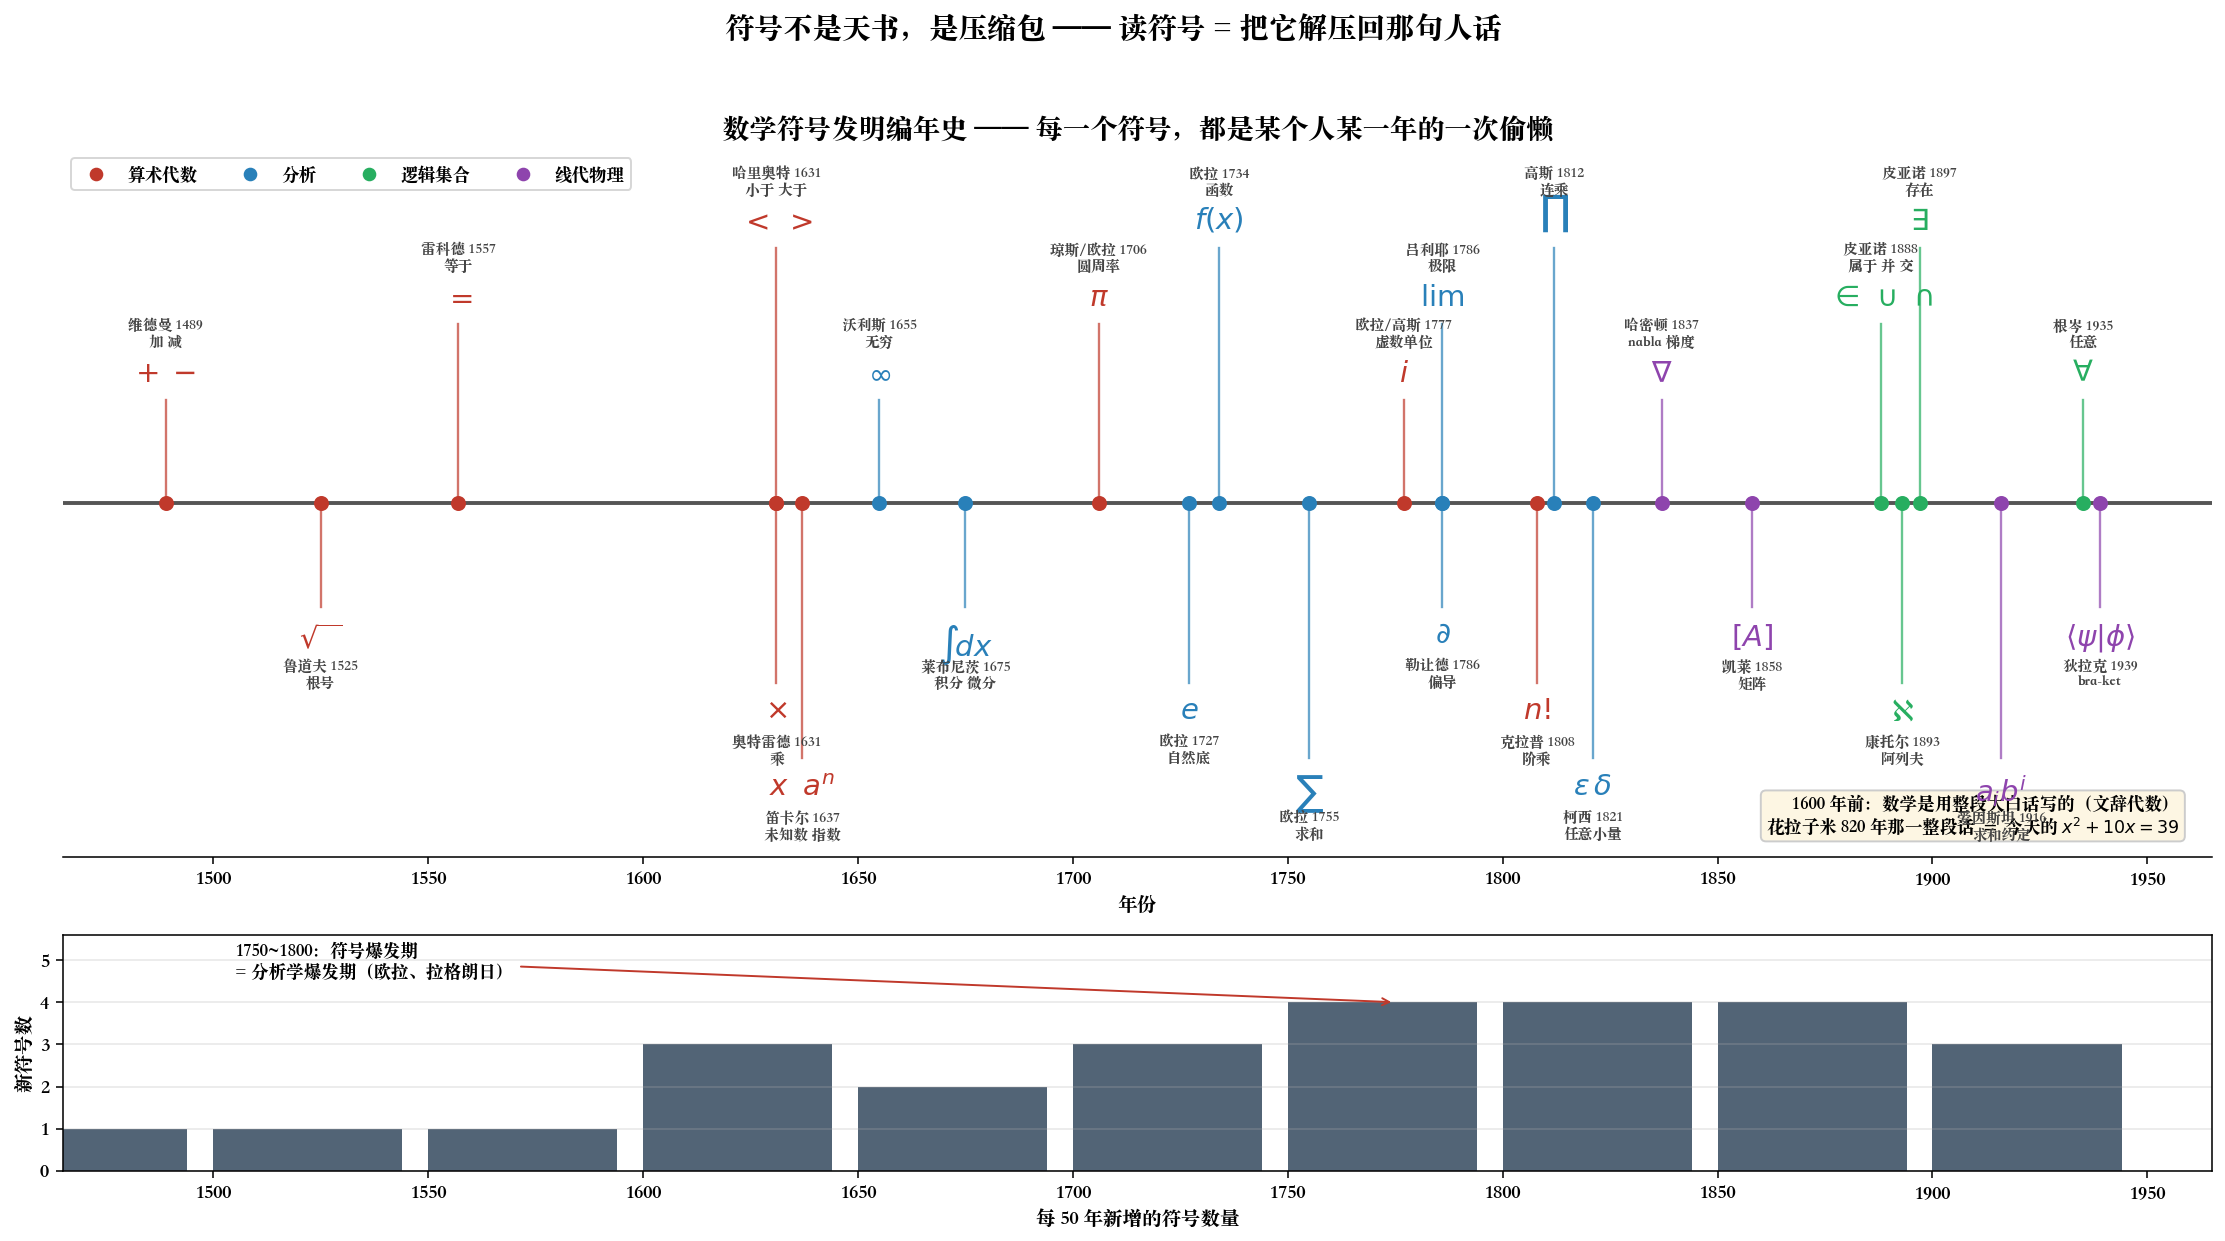
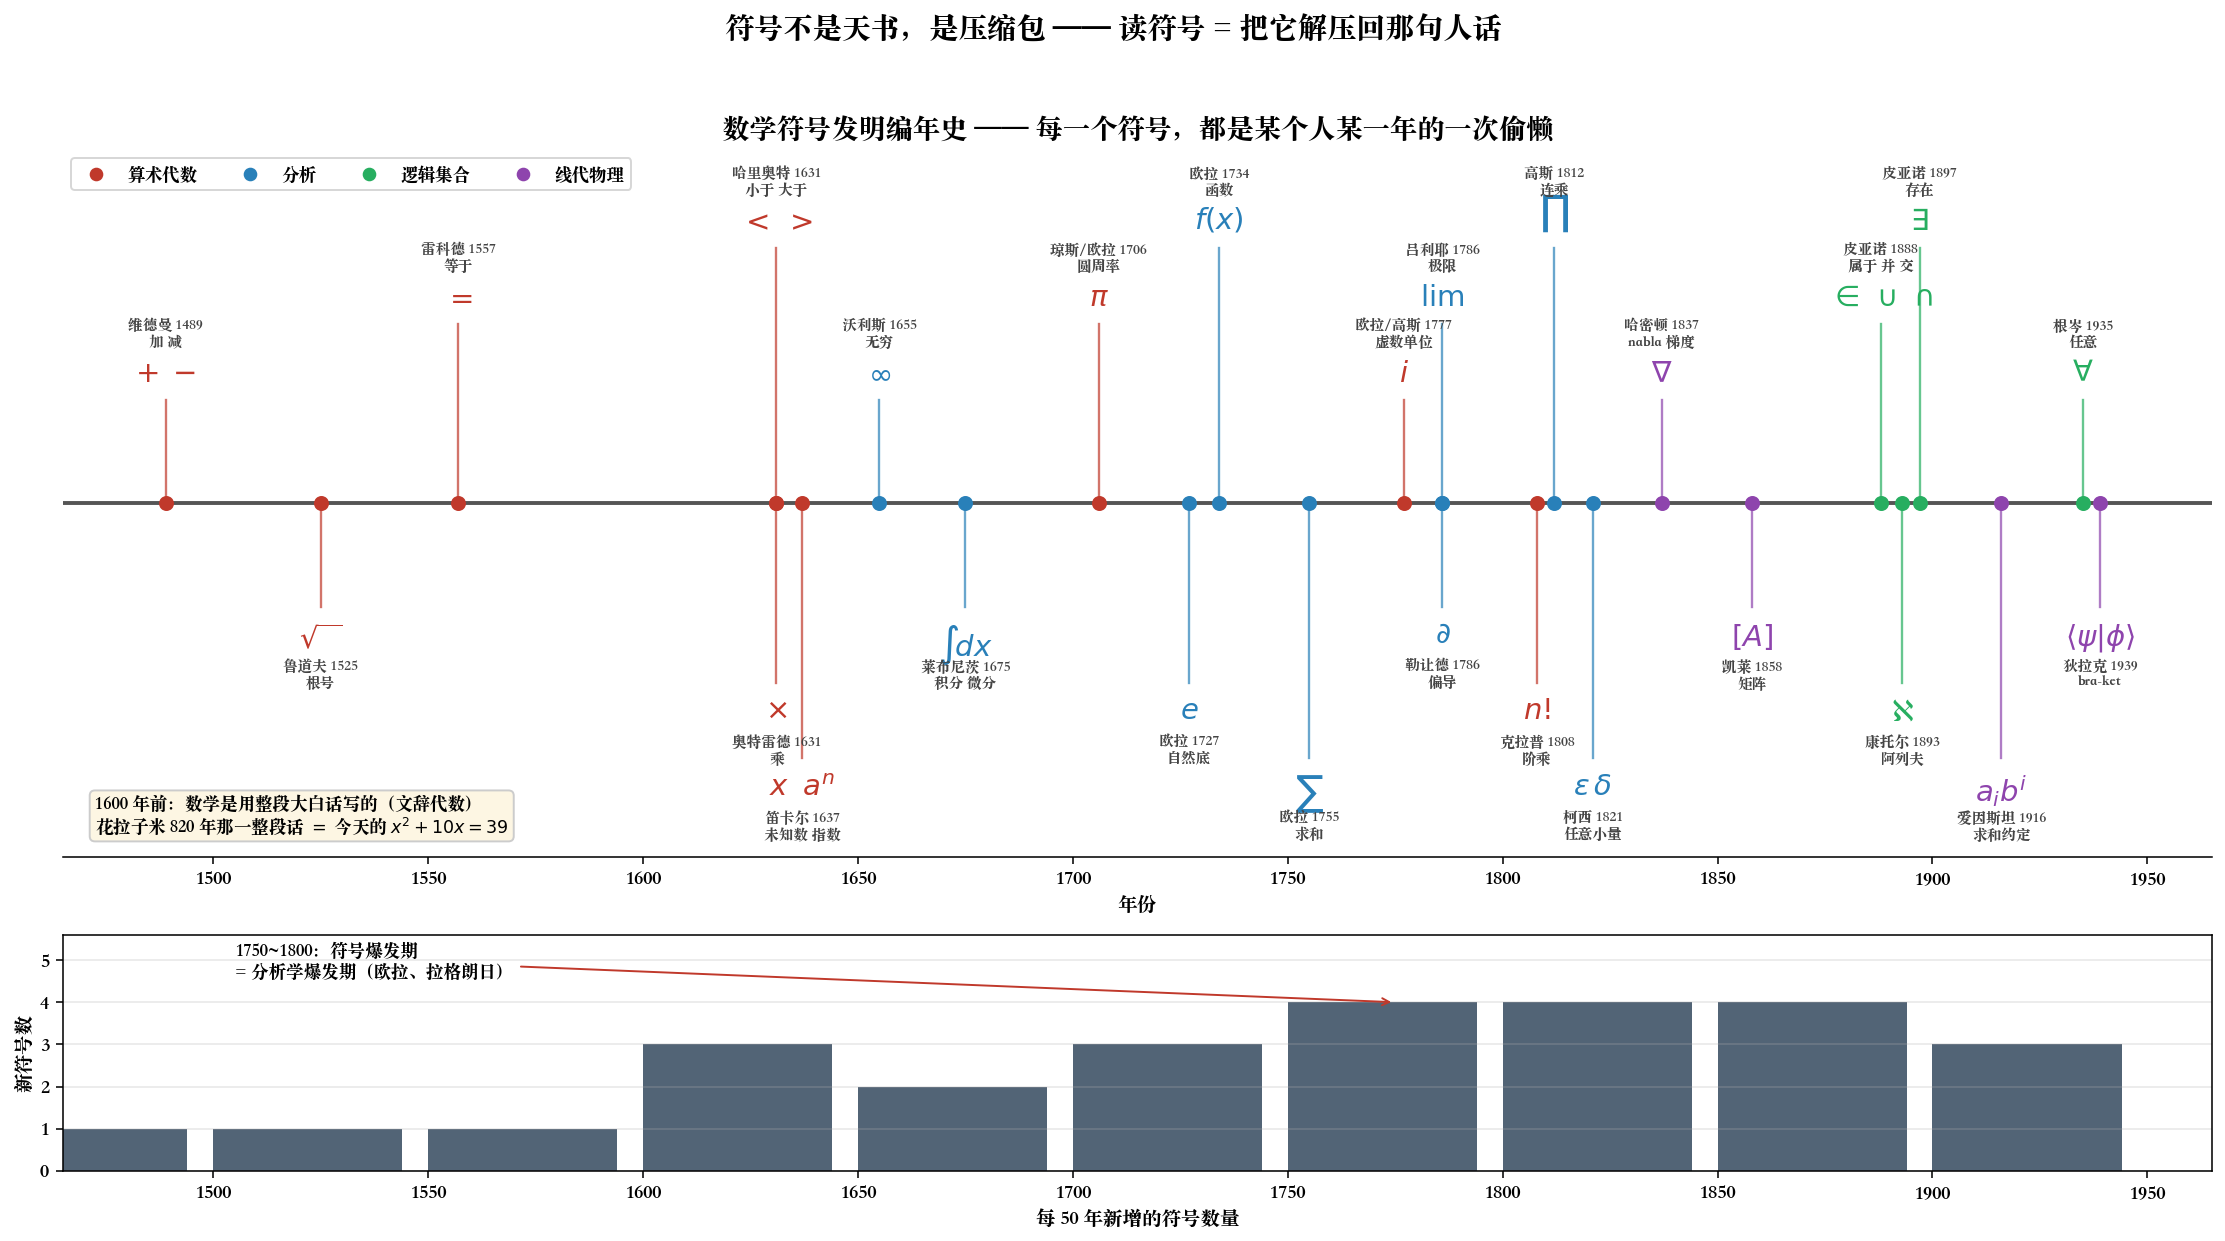
fix update bug ch00_97_reading_formulas

Changed region(s): [[0.7753, 0.6124, 0.9924, 0.7043], [0.031, 0.6124, 0.2481, 0.7043]]

diff --git a/ch00_97_reading_formulas/einsum_as_einstein.py b/ch00_97_reading_formulas/einsum_as_einstein.py
@@ -60,7 +60,7 @@ def main():
         ('"i,j->ij"',    "外积 outer(u,v)",     torch.einsum("i,j->ij", u, v),        torch.outer(u, v)),
         ('"ij->ji"',     "转置 A.T",            torch.einsum("ij->ji", A),            A.T),
         ('"ij,ij->"',    "全元素内积 (A*A).sum", torch.einsum("ij,ij->", A, A),        (A * A).sum()),
-        ('"bnd,bmd->bnm"', "批量注意力 QKᵀ",    torch.einsum("bnd,bmd->bnm", Qb, Kb), Qb @ Kb.transpose(1, 2)),
+        ('"bnd,bmd->bnm"', "批量注意力 QK^T",    torch.einsum("bnd,bmd->bnm", Qb, Kb), Qb @ Kb.transpose(1, 2)),
     ]
 
     print("爱因斯坦 1916 的偷懒规则，今天叫 torch.einsum：")
@@ -75,7 +75,7 @@ def main():
     print(f"\n手写三重循环 vs einsum 最大偏差 = {(C - C_loop).abs().max():.2e}   ✓")
     print("（那第三重 for j 循环，就是爱因斯坦省掉的那个 Σ）")
 
-    fig, axes = plt.subplots(1, 4, figsize=(19, 5),
+    fig, axes = plt.subplots(1, 4, figsize=(19, 6.2),
                              gridspec_kw={"width_ratios": [1, 1, 1, 1.5]})
 
     for ax, M, title, xl, yl in [
@@ -83,10 +83,12 @@ def main():
         (axes[1], B, r"$B_{jk}$" + f"   shape {tuple(B.shape)}", "k（保留）", "j（将被求和掉）"),
         (axes[2], C, r"$C_{ik}=A_{ij}B_{jk}$" + f"   shape {tuple(C.shape)}", "k", "i"),
     ]:
-        im = ax.imshow(M, cmap="RdBu_r")
+        im = ax.imshow(M, cmap="RdBu_r", aspect="auto")
         for r in range(M.shape[0]):
             for c in range(M.shape[1]):
                 ax.text(c, r, f"{M[r, c]:.1f}", ha="center", va="center", fontsize=8)
+        ax.set_xticks(range(M.shape[1]))
+        ax.set_yticks(range(M.shape[0]))
         ax.set_title(title, fontsize=12, fontweight="bold")
         ax.set_xlabel(xl)
         ax.set_ylabel(yl)
@@ -95,6 +97,8 @@ def main():
     # ---- 右：对拍表 --------------------------------------------------------
     ax = axes[3]
     ax.axis("off")
+    ax.set_xlim(0, 1)          # 关掉坐标轴后仍要钉死数据范围，否则 tight_layout 会算飞
+    ax.set_ylim(0, 1)
     ax.set_title("einsum 字符串 = 爱因斯坦记号本身", fontsize=12, fontweight="bold")
     ax.text(0.0, 0.94, "字符串", fontsize=10.5, fontweight="bold", color="#2980b9")
     ax.text(0.42, 0.94, "等价的传统写法", fontsize=10.5, fontweight="bold", color="#2980b9")
@@ -119,7 +123,7 @@ def main():
     fig.suptitle(r"$\sum_j A_{ij}B_{jk}\;\to\;A_{ij}B_{jk}$：爱因斯坦 1916 年省掉的那个 $\Sigma$，"
                  "今天叫 torch.einsum",
                  fontsize=14, fontweight="bold")
-    fig.tight_layout(rect=(0, 0, 1, 0.93))
+    fig.tight_layout(rect=(0, 0, 1, 0.92))
     out = Path(__file__).with_suffix(".png")
     fig.savefig(out, dpi=140, bbox_inches="tight")
     print(f"\n图已保存到 {out}")

diff --git a/ch00_97_reading_formulas/sigma_disambiguation.py b/ch00_97_reading_formulas/sigma_disambiguation.py
@@ -53,14 +53,14 @@ def main():
     a2.grid(alpha=.3)
 
     # ---- ③ 奇异值 ---------------------------------------------------------
-    A = torch.randn(8, 8) @ torch.randn(8, 3) @ torch.randn(3, 8)   # 秩 ≈ 3
+    A = torch.randn(8, 3) @ torch.randn(3, 8) + 0.02 * torch.randn(8, 8)  # 秩 ≈ 3 + 微噪
     sv = torch.linalg.svdvals(A)
     a3.bar(range(1, len(sv) + 1), sv, color="#e67e22")
-    a3.set_yscale("log")
     a3.set_title(r"③ 线性代数：$\sigma_i$ = 奇异值", fontsize=12, fontweight="bold")
     a3.set_xlabel(r"$A=U\Sigma V^{\top}$ 的对角元 —— 注意这里大写 $\Sigma$ 也不是求和！")
     a3.grid(axis="y", alpha=.3)
-    a3.annotate("秩 ≈ 3：后面的奇异值断崖", xy=(4, sv[3]), xytext=(4.5, sv[0] / 3),
+    a3.annotate("秩 ≈ 3：后面的奇异值断崖到接近 0",
+                xy=(4, sv[3]), xytext=(4.2, sv[0] / 2),
                 fontsize=9.5, arrowprops=dict(arrowstyle="->", color="#c0392b"))
 
     # ---- ④ 置换 -----------------------------------------------------------

diff --git a/ch00_97_reading_formulas/formula_to_forloop.py b/ch00_97_reading_formulas/formula_to_forloop.py
@@ -136,9 +136,13 @@ def main():
     bars = axR.barh(names, errs, color="#27ae60")
     axR.set_xscale("log")
     axR.set_xlim(1e-10, 1e-3)
+    # 刻度标签写成纯文本：中文字体缺 U+2212，让 mathtext 去画 10^{-9} 会掉字形
+    axR.set_xticks([1e-9, 1e-8, 1e-7, 1e-6, 1e-5, 1e-4],
+                   ["1e-9", "1e-8", "1e-7", "1e-6", "1e-5", "1e-4"])
+    axR.minorticks_off()
     axR.axvline(1e-7, color="#c0392b", ls="--", lw=1.5)
     axR.text(1.1e-7, -0.42, "float32 精度线", color="#c0392b", fontsize=9)
-    axR.set_xlabel("|手写循环 − 库函数|（越小越好）")
+    axR.set_xlabel("|手写循环 - 库函数|（越小越好）")
     axR.set_title("四个公式的对拍误差", fontsize=12, fontweight="bold")
     axR.grid(axis="x", alpha=.3)
     for b, e in zip(bars, errs):
